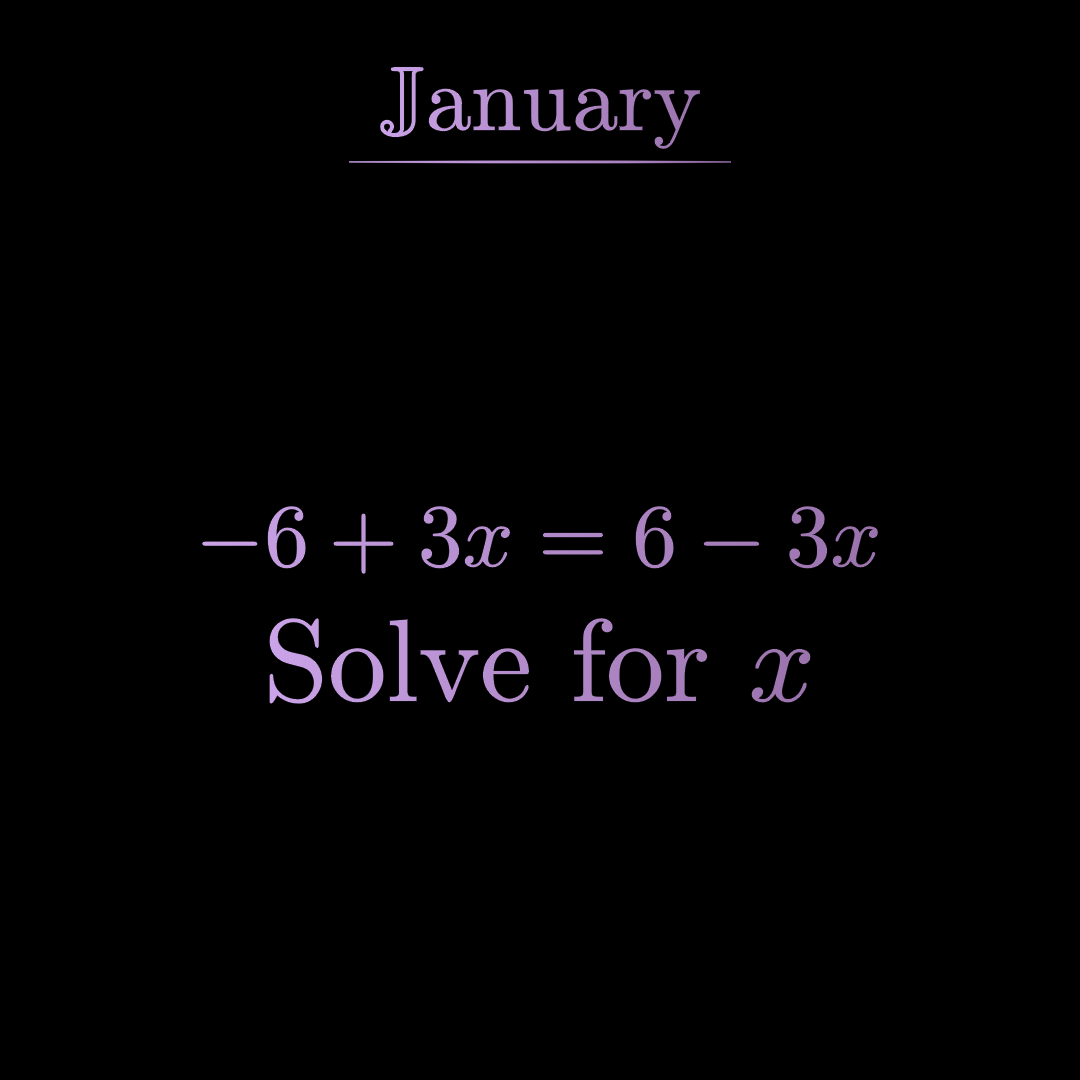
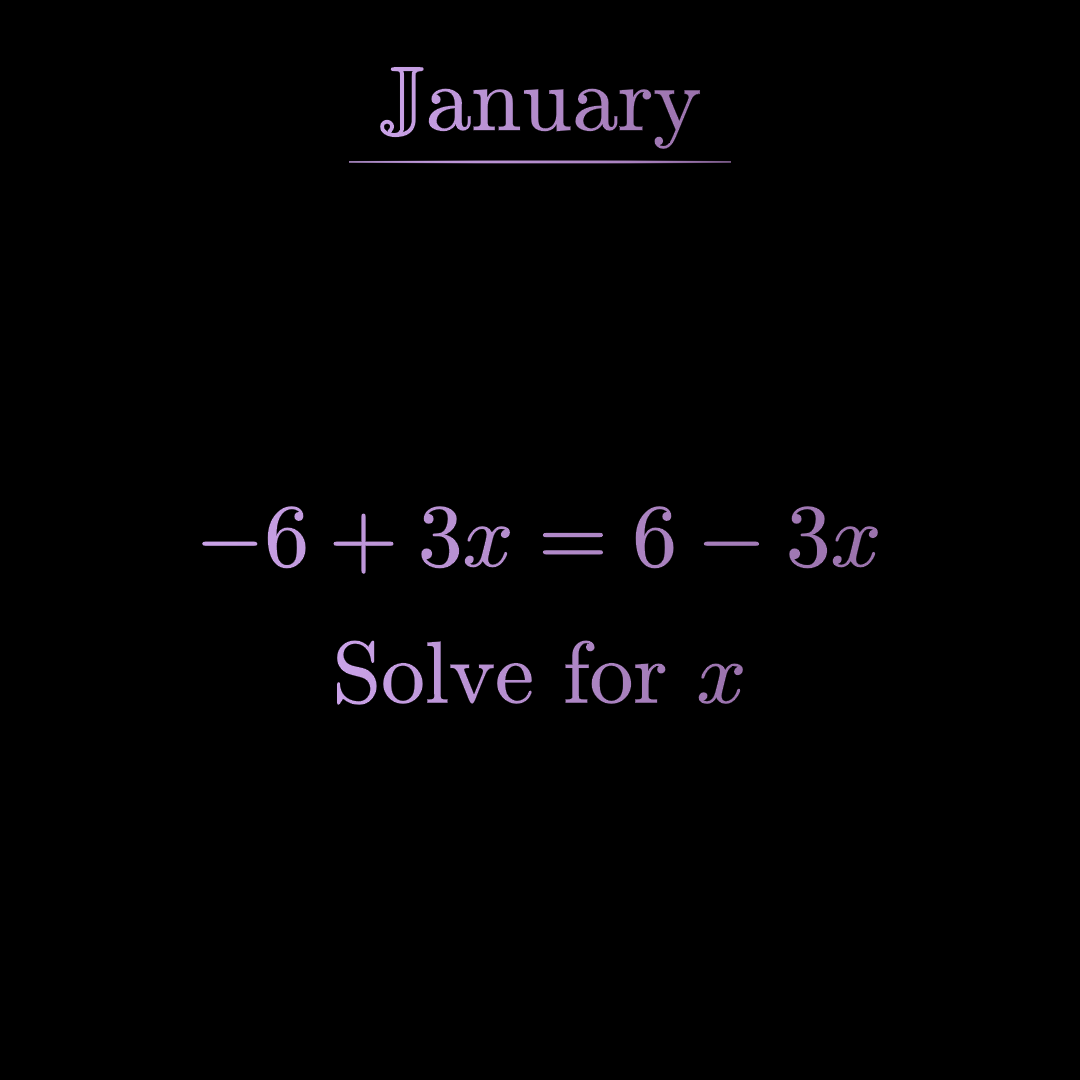
f

Changed region(s): [[0.2444, 0.55, 0.4889, 0.6722], [0.5194, 0.55, 0.7639, 0.6722]]

diff --git a/month.py b/month.py
@@ -33,7 +33,7 @@ class January(InteractiveScene):
         self.add(problem)
 
         solve = TexText("Solve for $x$")
-        solve.set_width(FRAME_WIDTH - 4)
+        solve.set_width(FRAME_WIDTH - 5)
         solve.set_color(color)
-        solve.next_to(problem, DOWN, buff=MED_LARGE_BUFF * 0.67)
+        solve.next_to(problem, DOWN, buff=MED_LARGE_BUFF)
         self.add(solve)
